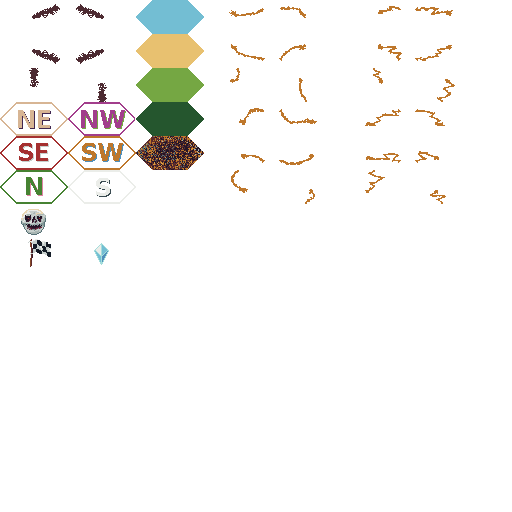
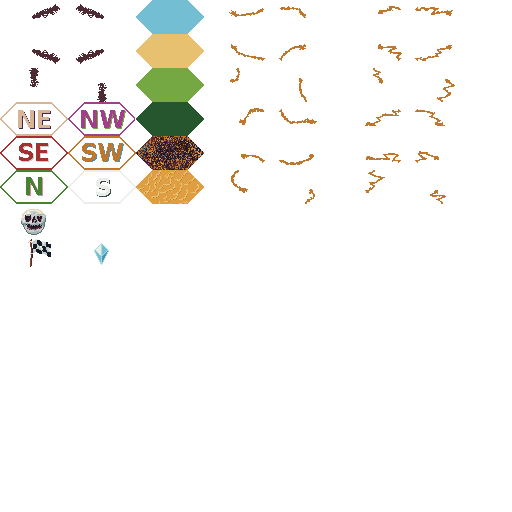
overworld/procedural: Add noise terrain generation

Changed region(s): [[0.25, 0.3125, 0.4062, 0.4062]]

diff --git a/game/overworld/procedural/noiseTerrainStrategy.go b/game/overworld/procedural/noiseTerrainStrategy.go
@@ -1,0 +1,56 @@
+package procedural
+
+import (
+	"math/rand"
+
+	"github.com/griffithsh/squads/geom"
+)
+
+type TerrainChances []struct {
+	Value  Code
+	Chance int
+}
+
+func (tc TerrainChances) roll(prng *rand.Rand) Code {
+	sum := 0
+	for _, c := range tc {
+		sum += c.Chance
+	}
+	got := prng.Intn(sum)
+	running := 0
+	for _, chance := range tc {
+		if got < chance.Chance+running {
+			return chance.Value
+		}
+		running += chance.Chance
+	}
+
+	return tc[0].Value
+}
+
+type NoiseTerrainStrategy struct {
+	Smoothing  int
+	Outside    Code
+	Components TerrainChances
+}
+
+func (ts *NoiseTerrainStrategy) Build(prng *rand.Rand, paths Paths) map[geom.Key]Code {
+	bloated := map[geom.Key]struct{}{}
+	for key := range paths.Nodes {
+		bloated[key] = struct{}{}
+		neighbors := key.ExpandBy(0, 2)
+		for _, neighbor := range neighbors {
+			bloated[neighbor] = struct{}{}
+		}
+	}
+
+	result := map[geom.Key]Code{}
+	for _, k := range shuffledGeomKeys(prng, bloated) {
+		result[k] = ts.Components.roll(prng)
+	}
+
+	// TODO: run smoothing ...
+	// 🤔 there are only six neighbors, but N possible components ......
+
+	return result
+}

diff --git a/tools/cmd/overworld/main.go b/tools/cmd/overworld/main.go
@@ -23,8 +23,9 @@ const screenWidth, screenHeight = 1024, 768
 
 func main() {
 	// recipe, err := content.ReadFile("recipes/atoll.json")
+	recipe, err := content.ReadFile("recipes/desert.json")
 	// recipe, err := content.ReadFile("recipes/edge-of-the-woods.json")
-	recipe, err := content.ReadFile("recipes/lakeside.json")
+	// recipe, err := content.ReadFile("recipes/lakeside.json")
 	// recipe, err := content.ReadFile("recipes/shore.json")
 	if err != nil {
 		fmt.Fprintf(os.Stderr, "read recipe: %v", err)

diff --git a/game/overworld/procedural/generator.go b/game/overworld/procedural/generator.go
@@ -54,6 +54,12 @@ func (g *Generator) UnmarshalJSON(b []byte) error {
 			return fmt.Errorf("unmarshal RadialGradientTerrainStrategy: %v", err)
 		}
 		g.Terrain = &tb
+	case "NoiseTerrainStrategy":
+		var n NoiseTerrainStrategy
+		if err = json.Unmarshal(v.TerrainBuilder, &n); err != nil {
+			return fmt.Errorf("unmarshal NoiseTerrainStrategy: %v", err)
+		}
+		g.Terrain = &n
 	default:
 		return fmt.Errorf("unknown terrainBuilder.type value: %s", ty.Value)
 	}

diff --git a/tools/cmd/overworld/overworldGenerator.go b/tools/cmd/overworld/overworldGenerator.go
@@ -36,6 +36,7 @@ func (g *overworldGenerator) Generate() {
 		"GRASS":  {Texture: "temporary.png", X: 136, Y: 68, W: 68, H: 34},
 		"FOREST": {Texture: "temporary.png", X: 136, Y: 102, W: 68, H: 34},
 		"ROCK":   {Texture: "temporary.png", X: 136, Y: 136, W: 68, H: 34},
+		"DUNES":  {Texture: "temporary.png", X: 136, Y: 170, W: 68, H: 34},
 	}
 
 	// Add terrain!
